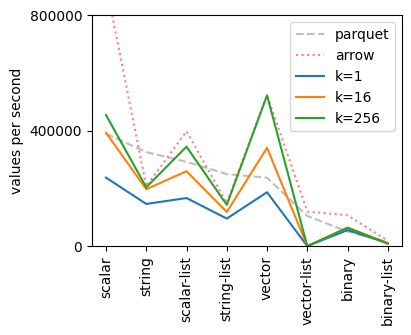
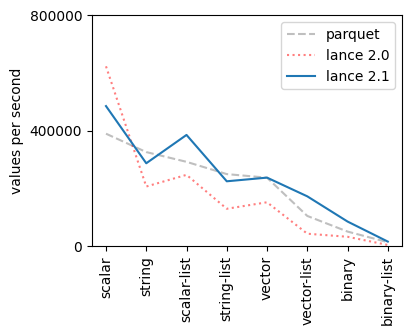
WIP

diff --git a/file_2_1/experiments/random-take/src/main.rs b/file_2_1/experiments/random-take/src/main.rs
@@ -38,7 +38,7 @@ use random_take_bench::{
     take::{take, TryClone},
     threading::TaskPool,
     util::RandomIndices,
-    DataTypeChoice, FileFormat, LOG_READS, SHOULD_LOG, TAKE_COUNTER,
+    DataTypeChoice, FileFormat, IOPS_COUNTER, LOG_READS, SHOULD_LOG, TAKE_COUNTER,
 };
 use tracing::{instrument, warn, Level};
 use tracing_chrome::ChromeLayerBuilder;
@@ -77,6 +77,7 @@ impl std::future::Future for DoOnPoll {
                 if LOG_READS.load(std::sync::atomic::Ordering::Acquire) {
                     log(format!("Reading {} bytes", length));
                 }
+                IOPS_COUNTER.fetch_add(1, std::sync::atomic::Ordering::Release);
                 let mut buf = BytesMut::with_capacity(length);
                 unsafe {
                     buf.set_len(length);
@@ -532,7 +533,12 @@ async fn run_bench_lance(
     log("Running benchmark");
     let iterations = if args.duration_seconds == 0.0 {
         // Special case, run once
-        bench_lance_one(args, &indices, readers.as_ref());
+        let args = args.clone();
+        let indices = indices.clone();
+        let readers = readers.clone();
+        tokio::task::spawn_blocking(move || bench_lance_one(&args, &indices, readers.as_ref()))
+            .await
+            .unwrap();
         1
     } else {
         let finished = Arc::new(AtomicBool::new(false));
@@ -696,6 +702,7 @@ async fn main() {
         "Rows taken per second across {} seconds: {}",
         args.duration_seconds, rows_taken_per_second,
     ));
+    log(format!("IOPS: {}", IOPS_COUNTER.load(Ordering::Acquire)));
     if args.quiet {
         println!("{}", rows_taken_per_second);
     }

diff --git a/file_2_1/experiments/random-take/src/parq/io.rs b/file_2_1/experiments/random-take/src/parq/io.rs
@@ -12,10 +12,11 @@ use object_store::local::LocalFileSystem;
 use object_store::path::Path;
 use object_store::ObjectStore;
 use parquet::file::reader::{ChunkReader, Length};
+use tracing::instrument;
 
 use crate::sync::RT;
 use crate::take::TryClone;
-use crate::{log, LOG_READS};
+use crate::{log, IOPS_COUNTER, LOG_READS};
 
 /// Marker trait for types that can be used as a file-like object
 pub trait FileLike: ChunkReader + TryClone + std::fmt::Debug + 'static {}
@@ -92,6 +93,7 @@ pub struct ReadAtReader {
 }
 
 impl Read for ReadAtReader {
+    #[instrument(skip_all)]
     fn read(&mut self, buf: &mut [u8]) -> std::io::Result<usize> {
         let _span = tracing::info_span!("read").entered();
         let offset = self.cursor;
@@ -136,6 +138,7 @@ impl ChunkReader for ReadAtFile {
         if LOG_READS.load(std::sync::atomic::Ordering::Acquire) {
             log(format!("Reading {} bytes", length));
         }
+        IOPS_COUNTER.fetch_add(1, std::sync::atomic::Ordering::Release);
         let mut buf = BytesMut::with_capacity(length);
         unsafe {
             buf.set_len(length);

diff --git a/file_2_1/experiments/random-take/lance_take.py b/file_2_1/experiments/random-take/lance_take.py
@@ -42,24 +42,26 @@ ax.plot(
 )
 
 ardf = pd.read_csv("lance_old_take.csv")
-arfiltered = ardf[(ardf["take_size"] == 256)]
+arfiltered = ardf[(ardf["take_size"] == 1)]
 ax.plot(
     arfiltered["column"],
     arfiltered["takes_per_second"],
-    label="arrow",
+    label="lance 2.0",
     color="red",
     linestyle=":",
     alpha=0.5,
 )
 
 for ts_idx, take_size in enumerate(take_sizes):
-    filtered = df[df["take_size"] == take_size]
+    if take_size == 1:
+        filtered = df[df["take_size"] == take_size]
 
-    ax.plot(
-        filtered["column"],
-        filtered["takes_per_second"],
-        label=f"k={take_size}",
-    )
+        ax.plot(
+            filtered["column"],
+            filtered["takes_per_second"],
+            # label=f"k={take_size}",
+            label="lance 2.1",
+        )
 
 ax.legend()
 

diff --git a/file_2_1/experiments/random-take/src/lib.rs b/file_2_1/experiments/random-take/src/lib.rs
@@ -18,6 +18,8 @@ pub mod util;
 /// Static flag to enable logging of reads
 pub static LOG_READS: Lazy<AtomicBool> = Lazy::new(|| AtomicBool::new(false));
 
+pub static IOPS_COUNTER: AtomicUsize = AtomicUsize::new(0);
+
 pub static SHOULD_LOG: AtomicBool = AtomicBool::new(false);
 pub fn log(msg: impl AsRef<str>) {
     if SHOULD_LOG.load(std::sync::atomic::Ordering::Acquire) {

diff --git a/file_2_1/experiments/random-take/src/datagen.rs b/file_2_1/experiments/random-take/src/datagen.rs
@@ -11,7 +11,7 @@ use crate::DataTypeChoice;
 
 const WRITE_BATCH_SIZE: usize = 32 * 1024;
 // 768 x fp32 is a very common embedding type
-const EMBEDDING_SIZE: u32 = 1024;
+const EMBEDDING_SIZE: u32 = 768;
 // Binary values are randomly generated with a size between 16KB and 24KB
 const MIN_BINARY_SIZE: u64 = 16 * 1024;
 const MAX_BINARY_SIZE: u64 = 24 * 1024;

diff --git a/file_2_1/experiments/random-take/benchmark_parquet.py b/file_2_1/experiments/random-take/benchmark_parquet.py
@@ -37,7 +37,7 @@ def get_bench_args(
         str(page_size),
         "--drop-caches",
         "--concurrency",
-        "256",
+        "128",
         "--quiet",
     ]
 

diff --git a/file_2_1/experiments/random-take/benchmark_lance.py b/file_2_1/experiments/random-take/benchmark_lance.py
@@ -13,9 +13,9 @@ COLUMNS = [
     "scalar-list",
     "string-list",
     "vector",
-    "vector-list",
     "binary",
     "binary-list",
+    "vector-list",
 ]
 
 
